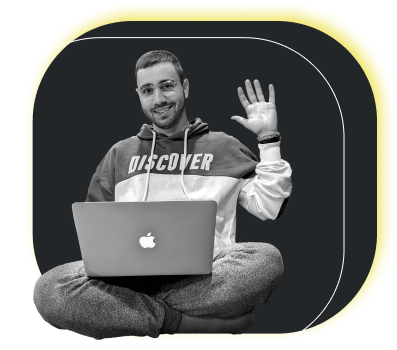
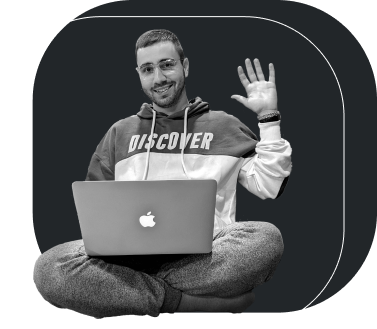
Задаст стили для about

diff --git a/style.css b/style.css
@@ -14,7 +14,6 @@ section {
 .head {
 	height: 100vh;
 	background-image: url('img/background/head.png');
-	background-repeat: no-repeat;
 	background-position: top center;
 }
 
@@ -191,31 +190,89 @@ section {
 	background: url('img/icon/head-whatsapp.svg') no-repeat center;
 }
 
-.about {}
+.about {
+	background: #FDEC0B;
+}
 
 .about__container {}
 
-.about__block--description {}
+.about__block--description {
+	display: flex;
+	height: 41.5rem;
+	padding-top: 9.5rem;
+	margin-bottom: 8.5rem;
+}
 
-.about__img {}
+.about__img {
+	width: 38rem;
+	height: 33rem;
+	background: url('img/daniil-hi.png') no-repeat center;
+}
 
-.about__description {}
+.about__description {
+	padding-left: 7rem;
+}
 
-.about__title {}
+.title {
+	font-family: Bebas Neue;
+	font-size: 10rem;
+}
 
-.title {}
+.about__title {
+	height: 10rem;
+	display: flex;
+	align-items: center;
+	color: #474A4F;
+	border-left: 1rem solid #FFF;
+	padding-left: 2rem;
+}
 
-.about__wrap-text {}
+.about__wrap-text {
+	padding-top: 3.5rem;
+}
 
-.about__text {}
+.about__text-hi {
+	color: #474A4F;
+	font-size: 2.8rem;
+	font-weight: 500;
+}
 
-.about__text-hi {}
+.about__text {
+	max-width: 63rem;
+	color: #474A4F;
+	font-size: 2rem;
+	line-height: 156.023%;
+}
 
-.about__block--exclusion {}
+.about__block--exclusion {
+	margin-bottom: 10rem;
+}
 
-.about__exclusion-list {}
+.about__exclusion-list {
+	display: flex;
+}
 
-.about__exclusion-item {}
+.about__exclusion-item {
+	height: 9rem;
+	display: flex;
+	align-items: center;
+	flex: 25%;
+	padding: 0 2.2rem;
+	border-right: .3rem solid;
+	color: #474A4F;
+	font-size: 2rem;
+	font-weight: 500;
+	line-height: 130%;
+}
+
+.about__exclusion-item:first-child {
+	padding-left: 0;
+}
+
+.about__exclusion-item:last-child {
+	padding-right: 0;
+	border: unset;
+}
 
 .blog {}
 

diff --git a/index.html b/index.html
@@ -104,8 +104,7 @@
               Умею доходчиво излагать свои мысли и доводы
             </li>
             <li class="about__exclusion-item">
-              Грамотно расчитываю свои силы и равномерно распредиляю нагрузку в
-              работе
+              Грамотно расчитываю свои силы и нагрузку в работе
             </li>
             <li class="about__exclusion-item">
               Могу взглянуть со стороны пользователя на конечный продукт
